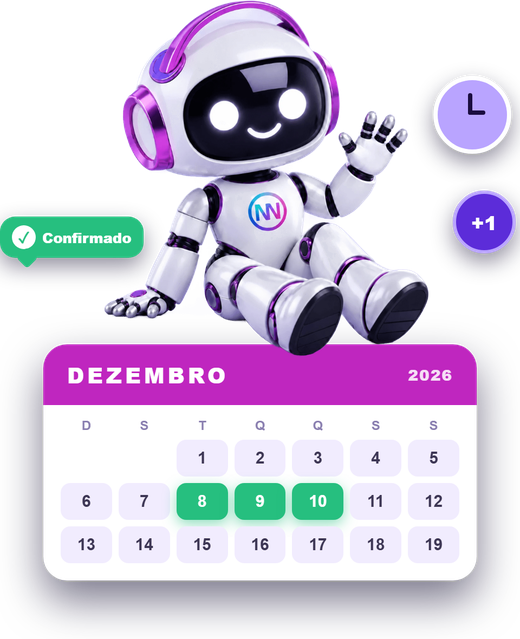
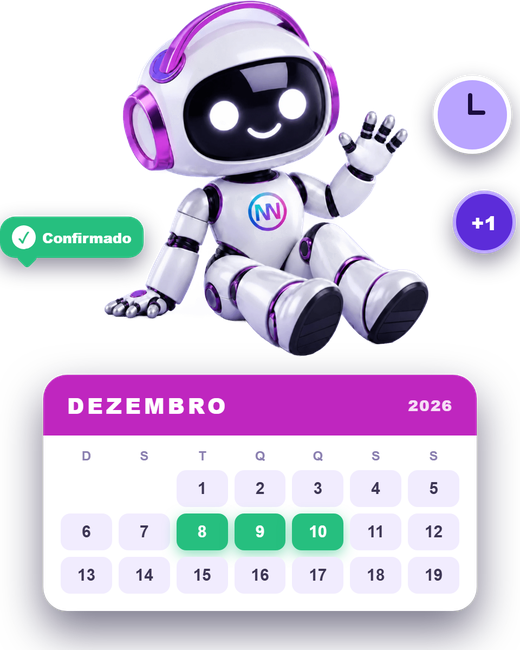
Calendar: imagem da Vitória sem encostar no calendário (claude)

diff --git a/webinar-calendar-01/index.html b/webinar-calendar-01/index.html
@@ -76,7 +76,7 @@ Lançamento oficial em 08, 09 e 10/12, grátis e com uma surpresa para quem esti
           <p class="sub2" style="margin:10px 0 0;font-family:'Plus Jakarta Sans',Arial,sans-serif;font-size:13px;line-height:20px;color:#B9A4FF;">Webinar gratuito e ao vivo.</p>
         </td>
         <td class="vit" width="262" align="right" valign="middle" style="width:262px;vertical-align:middle;padding-top:24px;">
-          <img class="vit-img" src="https://raw.githubusercontent.com/GetterPaulo/connect-email-assets/main/webinar-calendar-01/vitoria-calendar-sentada.png" width="256" height="315" alt="Vitória, assistente da Connect, sentada sobre o calendário de dezembro" style="width:256px;height:315px;">
+          <img class="vit-img" src="https://raw.githubusercontent.com/GetterPaulo/connect-email-assets/main/webinar-calendar-01/vitoria-calendar-sentada.png" width="256" height="320" alt="Vitória, assistente da Connect, sentada sobre o calendário de dezembro" style="width:256px;height:320px;">
         </td>
       </tr></table>
     </td>
